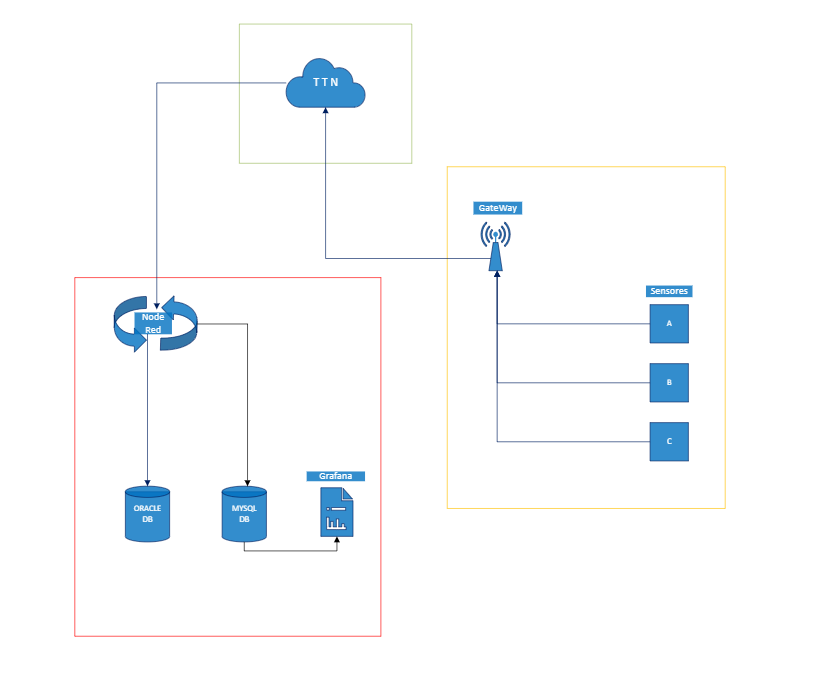
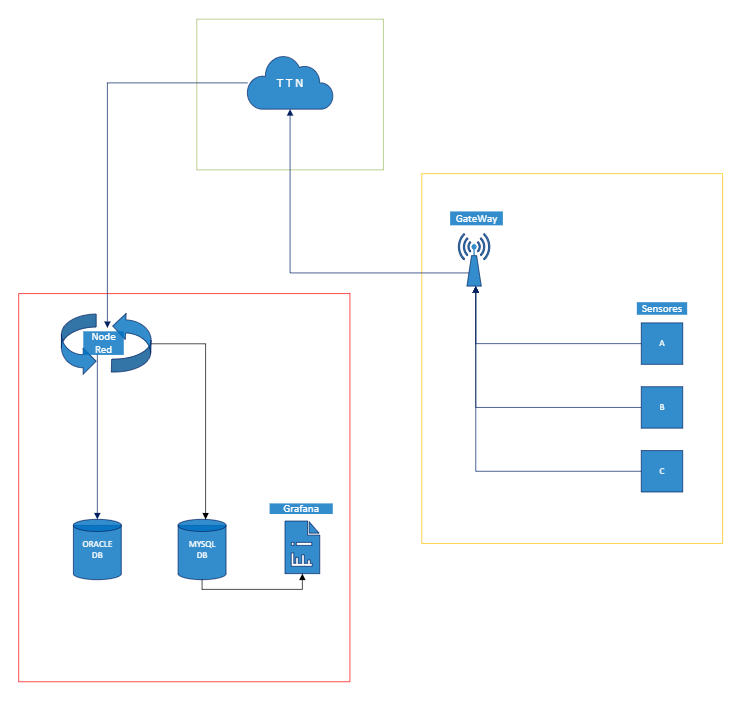
Actualizacion oficial 1

diff --git a/src/App.jsx b/src/App.jsx
@@ -1,5 +1,4 @@
 import { motion } from "framer-motion"
-
 import {
   Database,
   Globe,
@@ -218,7 +217,7 @@ export default function App() {
 
                 <div className="bg-black/30 flex items-center justify-center p-10">
                   <img
-                    src="/images/arquitectura.png"
+                    src={`${import.meta.env.BASE_URL}images/arquitectura.png`}
                     alt="Arquitectura"
                     className="rounded-3xl shadow-2xl border border-white/10"
                   />
@@ -247,7 +246,8 @@ export default function App() {
                   <p className="text-gray-300 leading-relaxed mb-8">
                     Arquitectura completa para monitoreo inteligente de
                     medidores utilizando MQTT, Node-RED, Oracle XE,
-                    MySQL y Grafana.
+                    MySQL y Grafana. Actualmente este proyecto continúa en desarrollo,
+                    basado en el esqueleto arquitectónico que realice como base del sistema.
                   </p>
 
                   <ul className="space-y-4 text-gray-300">
@@ -286,7 +286,9 @@ export default function App() {
 
                   <p className="text-gray-300 leading-relaxed mb-8">
                     Aplicación para automatización y procesamiento masivo
-                    de archivos XML con monitoreo en tiempo real.
+                    de archivos XML con monitoreo en tiempo real. Este sistema actualmente
+                    se encuentra en uso dentro de la empresa de contabilidad HYH,
+                    apoyando procesos administrativos y contables.
                   </p>
 
                   <ul className="space-y-4 text-gray-300">
@@ -300,7 +302,7 @@ export default function App() {
 
                 <div className="bg-black/30 flex items-center justify-center p-10">
                   <img
-                    src="/images/procesadorXML.png"
+                    src={`${import.meta.env.BASE_URL}images/procesadorXML.png`}
                     alt="Sistema XML"
                     className="rounded-3xl shadow-2xl border border-white/10"
                   />